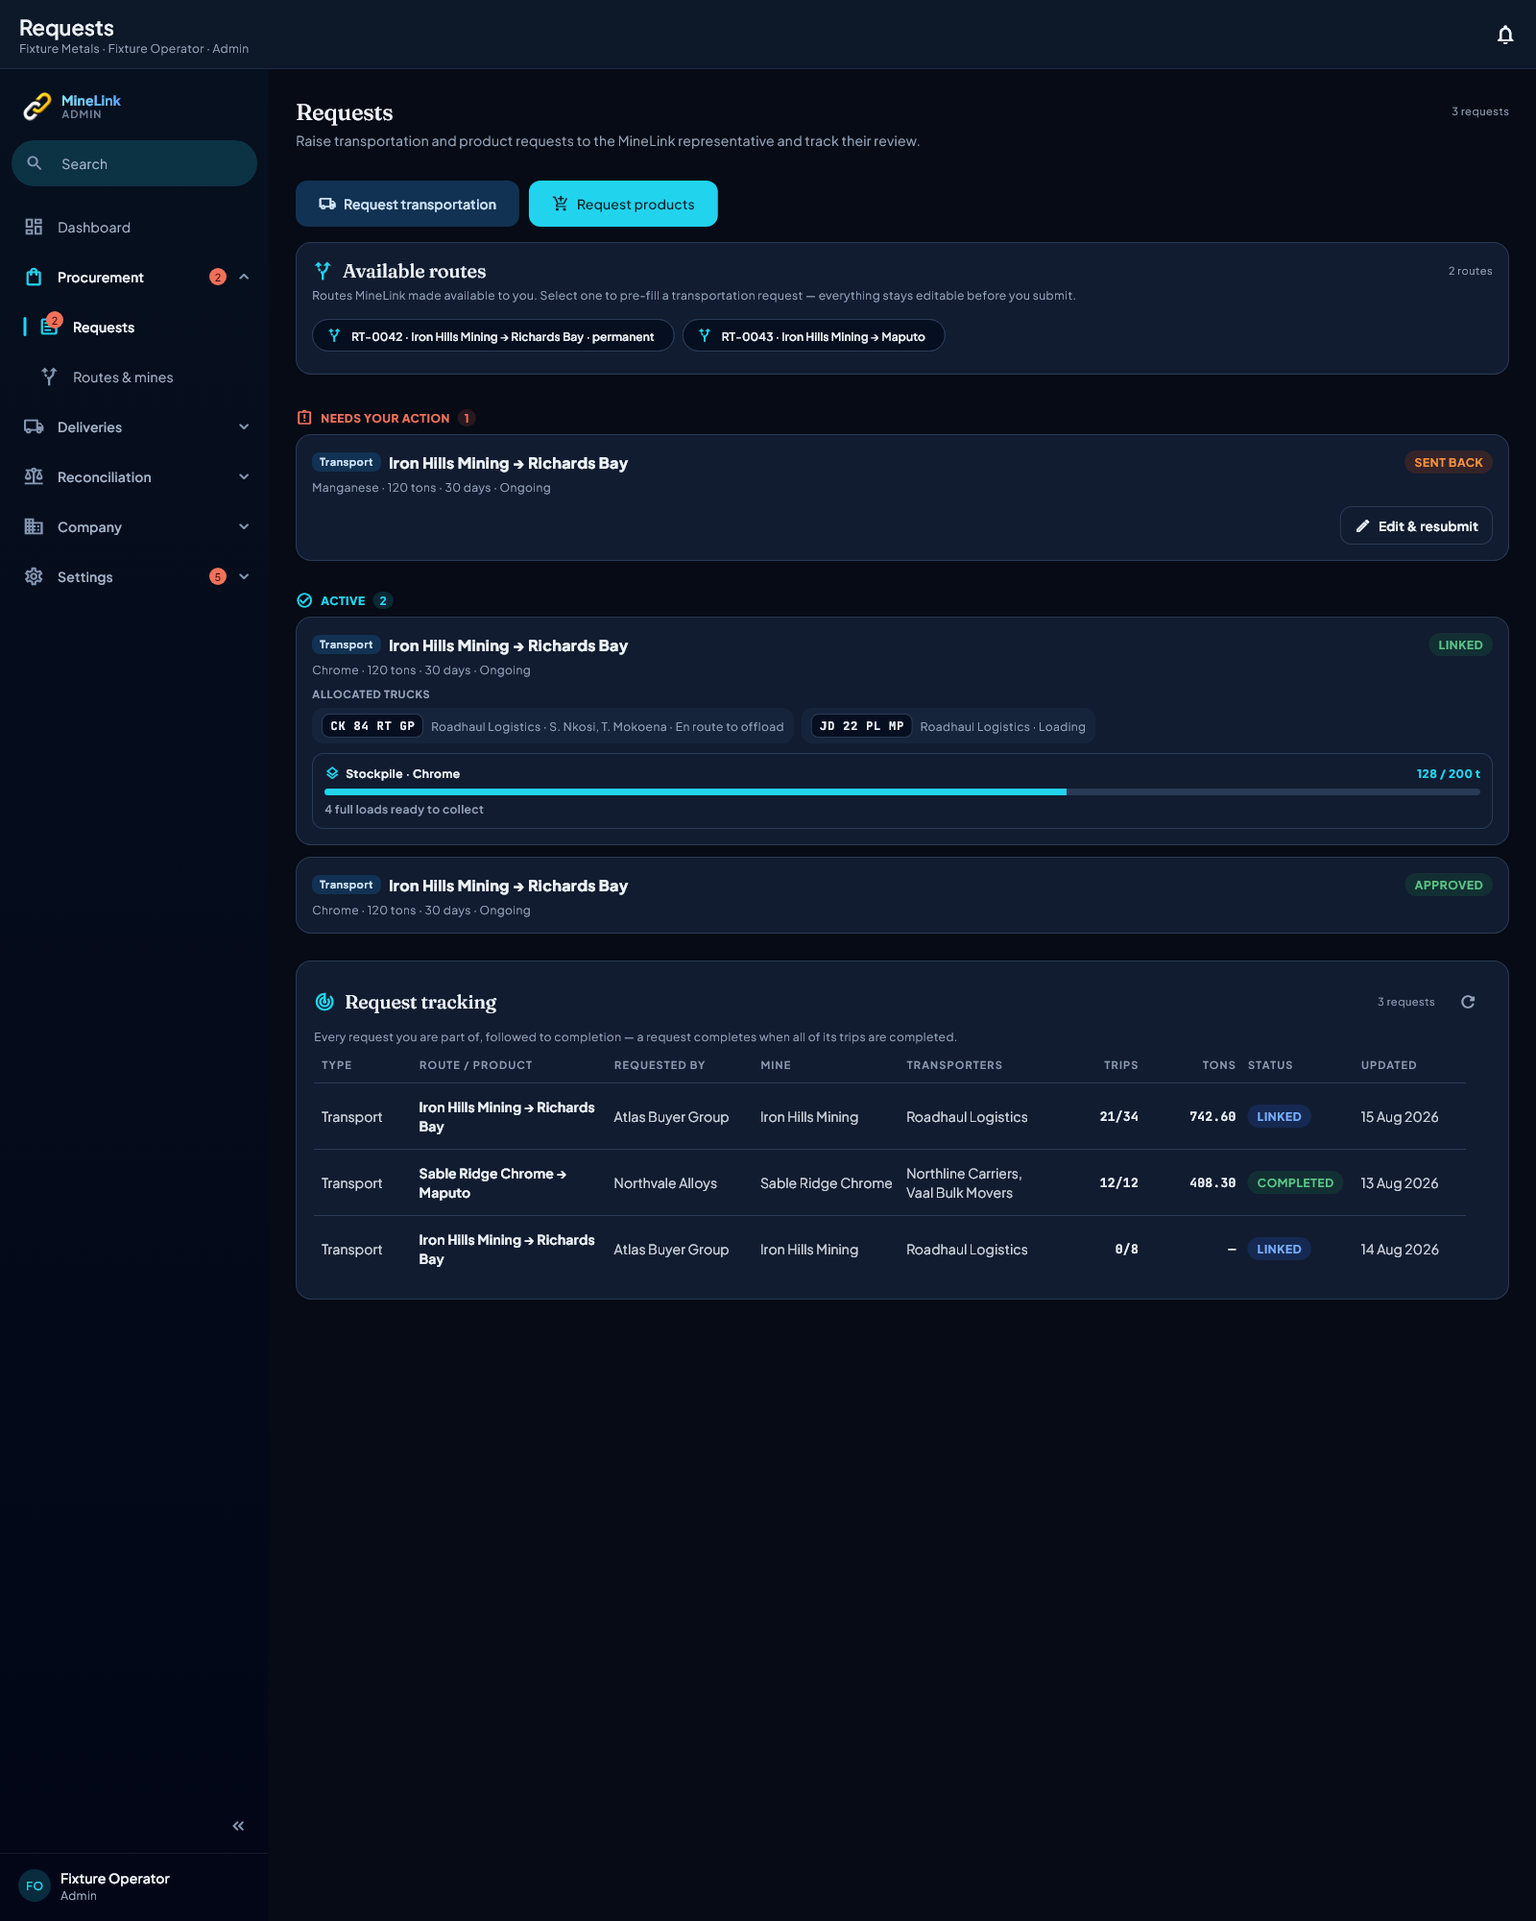
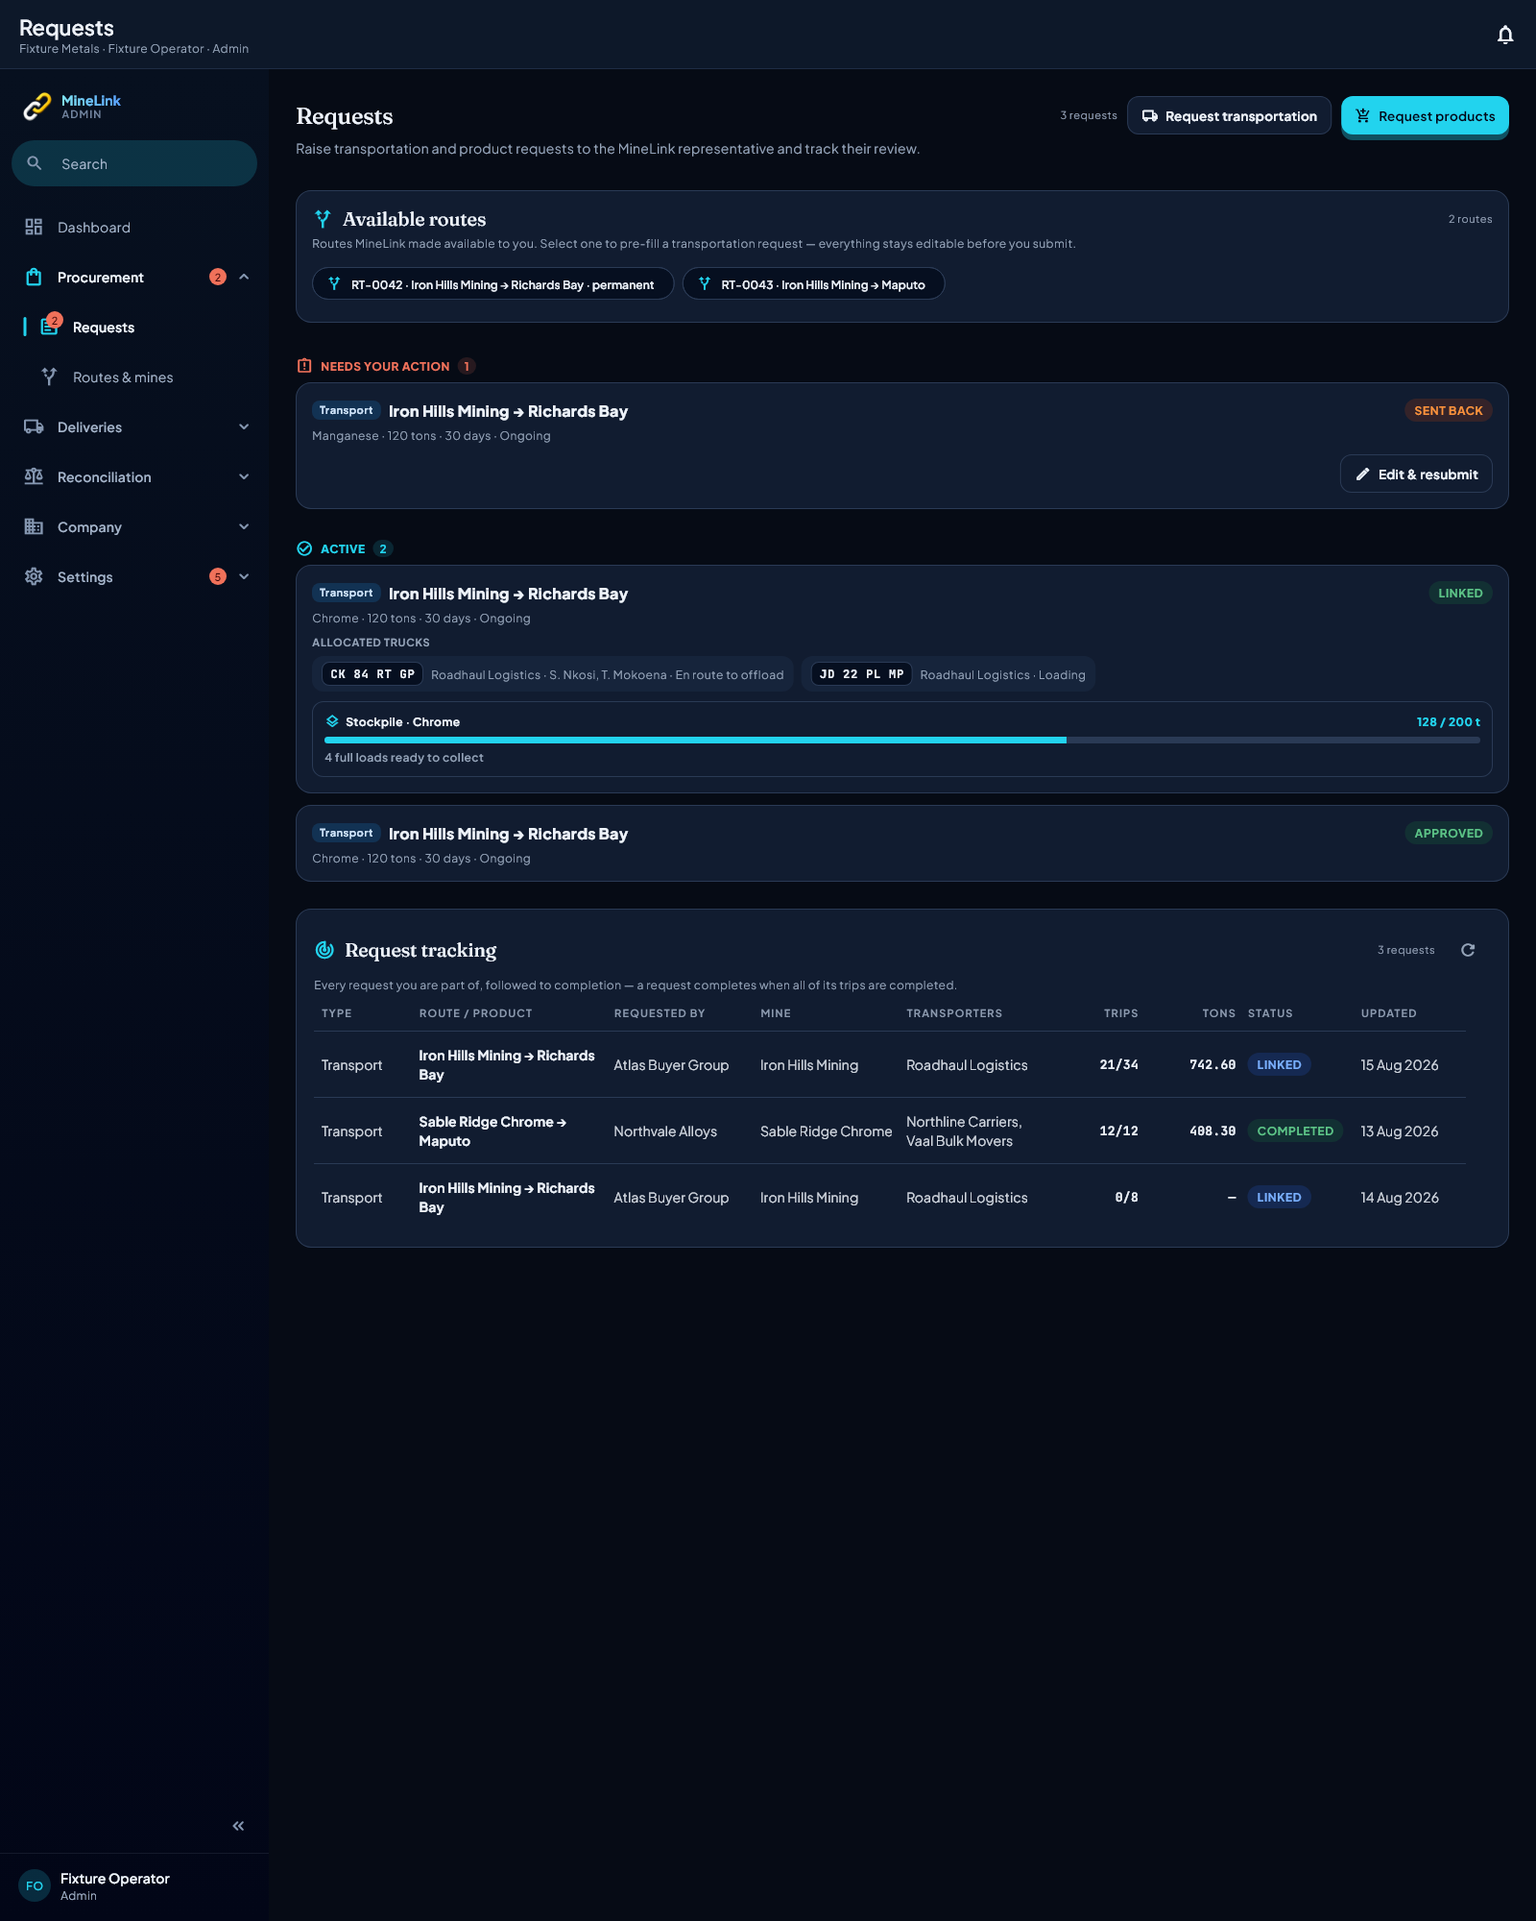
fix(requests): a mine is told it raises BUYER requests, the two actions move into the header, and the mine's own screen is photographed for the first time
Reviewer finding #43, verified in the code and then in a render that had to be
created to see it.

THE COPY. `BuyerRequestsScreen` is shared — a buyer gets it plain, a mine gets
`isMine: true`. Its own class doc four lines above the header says "buyers
request products, mines request buyers", and CLAUDE.md §4 is explicit: Request
2 (product) is BUYER ONLY, Request 3 (buyer) is MINE/SUPPLIER ONLY. The button
branched on `isMine` correctly. The sentence above it did not — both orgs read
"Raise transportation and product requests to the MineLink representative", so
the mine's Requests screen named the one request type it cannot raise and
omitted the one it can, directly above a button offering the one it omitted.

THE ACTIONS. Both sat in a left `Wrap` BELOW the header as stock Material — a
`FilledButton.tonalIcon` beside a `FilledButton.icon`, two button languages
side by side and neither of them this product's — while the header's own right
end held nothing but the meta. They are `MlPageHeader.actions` now,
`MlButton.tonal` then `MlButton.primary`, so the org-specific action keeps the
right edge it already had, which is also where the Buyers page puts its single
primary. On a phone `_HeaderLayout` measures, finds they do not fit beside the
title, and stacks them right-aligned (`bcb0fdb`); before, they were a stock
`Wrap` stranded left. The header is ~55px shorter on the desktop and ~34px on
the phone.
[…]

Changed region(s): [[0.1875, 0.031, 1.0, 0.682]]

diff --git a/test/features/portal/requests_screen_copy_and_actions_test.dart b/test/features/portal/requests_screen_copy_and_actions_test.dart
@@ -1,0 +1,187 @@
+// The Requests screen names the requests the org can actually raise, and its
+// actions belong to its header.
+//
+// Phase 3 mine-portal pass, 2026-08-23 (reviewer finding #43, verified in the
+// code and then in a render that did not exist — see below).
+//
+// `BuyerRequestsScreen` is shared: a buyer gets it plain, a mine gets it with
+// `isMine: true`. Its own class doc says "buyers request products, mines
+// request buyers", and §4 of CLAUDE.md is explicit — Request 2 (product) is
+// BUYER ONLY, Request 3 (buyer) is MINE/SUPPLIER ONLY. The button under the
+// header branched on `isMine` correctly. The sentence above it did not: both
+// orgs read "Raise transportation and product requests", so the mine's screen
+// named the one request type it cannot raise and omitted the one it can.
+//
+// And the two actions sat in a left `Wrap` BELOW the header as stock Material
+// — a `FilledButton.tonalIcon` beside a `FilledButton.icon`, two button
+// languages neither of which is this product's — while the header's own right
+// end held only the meta.
+//
+// NO RENDER OF `isMine: true` EXISTED. `unphotographed_screens.py` counted the
+// class as photographed because the name appears in the render file, which is
+// the name-based limit its own header documents; every picture was the buyer.
+// `screen-mine-requests-{desktop,phone}-dark` were added in the same commit,
+// and they also photograph `_RequestCard`'s `'buyer'` branch for the first
+// time.
+
+import 'package:flutter/material.dart';
+import 'package:flutter_riverpod/flutter_riverpod.dart';
+import 'package:flutter_test/flutter_test.dart';
+import 'package:shared_preferences/shared_preferences.dart';
+import 'package:supabase_flutter/supabase_flutter.dart';
+
+import 'package:flutter_application_1/core/design/components/ml_components.dart';
+import 'package:flutter_application_1/core/theme/app_theme.dart';
+import 'package:flutter_application_1/features/auth/models/user_type.dart';
+import 'package:flutter_application_1/features/portal/screens/buyer_requests_screen.dart';
+
+import '../../fixtures/portal_capture_fixtures.dart';
+import '../../fixtures/portal_tail_fixtures.dart';
+import '../../fixtures/screen_fixtures.dart';
+import '../../test_helpers/real_fonts.dart';
+import '../../test_helpers/frozen_clock.dart';
+
+void main() {
+  setUpAll(() async {
+    freezeCaptureClock();
+    await loadRealFonts();
+    SharedPreferences.setMockInitialValues({});
+    await Supabase.initialize(
+      url: 'http://localhost:54321',
+      anonKey: 'requests-copy-and-actions-test',
+    );
+  });
+
+  Future<void> pump(
+    WidgetTester tester, {
+    required bool isMine,
+    double width = 1600,
+  }) async {
+    tester.view.physicalSize = Size(width, 2400);
+    tester.view.devicePixelRatio = 1.0;
+    addTearDown(tester.view.reset);
+    await tester.pumpWidget(
+      ProviderScope(
+        overrides: [
+          ...companyScopeOverrides(
+            role: UserRole.admin,
+            orgType: isMine ? OrgType.mineSupplier : OrgType.buyer,
+          ),
+          ...portalCaptureOverrides(),
+          ...portalTailOverrides(),
+        ],
+        child: MaterialApp(
+          theme: AppTheme.darkTheme,
+          home: Scaffold(body: BuyerRequestsScreen(isMine: isMine)),
+        ),
+      ),
+    );
+    await tester.pump();
+    await tester.pump(const Duration(milliseconds: 600));
+  }
+
+  MlPageHeader header(WidgetTester tester) =>
+      tester.widget<MlPageHeader>(find.byType(MlPageHeader).first);
+
+  testWidgets('a mine is told it raises BUYER requests', (tester) async {
+    await pump(tester, isMine: true);
+
+    expect(header(tester).description, contains('buyer requests'));
+    expect(
+      header(tester).description,
+      isNot(contains('product')),
+      reason:
+          'CLAUDE.md §4 Request 2 is buyer-only — a mine cannot raise a '
+          'product request, and the button beside this sentence already knew '
+          'that',
+    );
+    expect(find.text('Request buyers'), findsOneWidget);
+    expect(find.text('Request products'), findsNothing);
+  });
+
+  // The GREEN case: the buyer's own copy was right and must stay right. This
+  // is the half a careless `isMine` branch would have broken.
+  testWidgets('a buyer is still told it raises PRODUCT requests', (
+    tester,
+  ) async {
+    await pump(tester, isMine: false);
+
+    expect(header(tester).description, contains('product requests'));
+    expect(header(tester).description, isNot(contains('buyer requests')));
+    expect(find.text('Request products'), findsOneWidget);
+    expect(find.text('Request buyers'), findsNothing);
+  });
+
+  testWidgets('both actions live in the page header, in the product\'s own '
+      'button language', (tester) async {
+    for (final isMine in [true, false]) {
+      await pump(tester, isMine: isMine);
+
+      expect(
+        header(tester).actions.length,
+        2,
+        reason: 'the screen-level actions belong to the screen-level header',
+      );
+      for (final w in header(tester).actions) {
+        expect(w, isA<MlButton>());
+      }
+
+      // `FilledButton.tonalIcon` and `FilledButton.icon` both build a
+      // `FilledButton`; `MlButton` does not.
+      expect(
+        find.byType(FilledButton),
+        findsNothing,
+        reason: 'stock Material buttons, in two different languages, next to '
+            'each other (isMine: $isMine)',
+      );
+    }
+  });
+
+  /// The fill `MlButton` actually paints for the button labelled [label].
+  ///
+  /// `MlButton._kind` is private and so is its enum, so the variant cannot be
+  /// read off the widget — but the colour it paints can, and that is the thing
+  /// a reader sees anyway.
+  Color? fillOf(WidgetTester tester, String label) {
+    final container = tester.widget<AnimatedContainer>(
+      find
+          .ancestor(
+            of: find.text(label),
+            matching: find.byType(AnimatedContainer),
+          )
+          .first,
+    );
+    return (container.decoration as BoxDecoration?)?.color;
+  }
+
+  testWidgets('the transportation action is the quieter of the two', (
+    tester,
+  ) async {
+    await pump(tester, isMine: true);
+
+    final actions = header(tester).actions.cast<MlButton>();
+    expect(actions.first.label, 'Request transportation');
+    expect(
+      actions.last.label,
+      'Request buyers',
+      reason:
+          'the org-specific action keeps the right edge it already had, which '
+          'is where the Buyers page puts its single primary too',
+    );
+
+    // And it is quieter, not merely earlier. `MlButton.primary` fills with the
+    // accent; `MlButton.tonal` fills with the card surface.
+    expect(
+      fillOf(tester, 'Request buyers'),
+      MlTokens.accent,
+      reason: 'the org-specific action is the primary one',
+    );
+    expect(
+      fillOf(tester, 'Request transportation'),
+      isNot(MlTokens.accent),
+      reason:
+          'two accent-filled buttons side by side is the same "everything is '
+          'emphasised" fault as the buyer cards on the Buyers page',
+    );
+  });
+}

diff --git a/lib/features/portal/screens/buyer_requests_screen.dart b/lib/features/portal/screens/buyer_requests_screen.dart
@@ -53,44 +53,53 @@ class BuyerRequestsScreen extends ConsumerWidget {
                 MlPageHeader(
                   title: 'Requests',
                   meta: mlCount(requests.length, 'request'),
-                  description:
-                      'Raise transportation and product requests to the MineLink '
-                      'representative and track their review.',
-                ),
-                if (!mirror) ...[
-                  const SizedBox(height: 14),
-                  Wrap(
-                    spacing: 10,
-                    runSpacing: 10,
-                    children: [
-                      FilledButton.tonalIcon(
-                        onPressed: () => _openForm(context, ref, companyId),
-                        icon: const Icon(
-                          Icons.local_shipping_outlined,
-                          size: 18,
-                        ),
-                        label: const Text('Request transportation'),
-                      ),
-                      if (isMine)
-                        FilledButton.icon(
-                          onPressed: () =>
-                              showBuyersRequestDialog(context, ref, companyId),
-                          icon: const Icon(Icons.group_add_outlined, size: 18),
-                          label: const Text('Request buyers'),
-                        )
-                      else
-                        FilledButton.icon(
-                          onPressed: () =>
-                              showProductRequestDialog(context, ref, companyId),
-                          icon: const Icon(
-                            Icons.add_shopping_cart_outlined,
-                            size: 18,
+                  // A MINE DOES NOT REQUEST PRODUCTS. This sentence had no
+                  // `isMine` branch, so the mine's own Requests screen
+                  // named a request type it cannot raise and omitted the
+                  // one it can — while the class doc four lines above says
+                  // "buyers request products, mines request buyers" and the
+                  // button under it said the same. §4 Request 2 is buyer
+                  // only; Request 3 is mine/supplier only.
+                  description: isMine
+                      ? 'Raise transportation and buyer requests to the MineLink '
+                          'representative and track their review.'
+                      : 'Raise transportation and product requests to the MineLink '
+                          'representative and track their review.',
+                  // The screen's own actions belong to its header. They sat
+                  // in a left `Wrap` BELOW it as stock Material — a
+                  // `FilledButton.tonalIcon` next to a `FilledButton.icon`,
+                  // two button languages side by side and neither of them
+                  // the product's — with the header's own right end empty.
+                  // Quieter first, so the org-specific action keeps the
+                  // right edge it already had and matches the Buyers page.
+                  actions: mirror
+                      ? const []
+                      : [
+                          MlButton.tonal(
+                            label: 'Request transportation',
+                            icon: Icons.local_shipping_outlined,
+                            compact: true,
+                            onPressed: () =>
+                                _openForm(context, ref, companyId),
                           ),
-                          label: const Text('Request products'),
-                        ),
-                    ],
-                  ),
-                ],
+                          if (isMine)
+                            MlButton.primary(
+                              label: 'Request buyers',
+                              icon: Icons.group_add_outlined,
+                              compact: true,
+                              onPressed: () => showBuyersRequestDialog(
+                                  context, ref, companyId),
+                            )
+                          else
+                            MlButton.primary(
+                              label: 'Request products',
+                              icon: Icons.add_shopping_cart_outlined,
+                              compact: true,
+                              onPressed: () => showProductRequestDialog(
+                                  context, ref, companyId),
+                            ),
+                        ],
+                ),
                 const SizedBox(height: 16),
                 AvailableRoutesSection(companyId: companyId, enabled: !mirror),
                 if (requests.isEmpty)

diff --git a/test/renders/redesign_renders_test.dart b/test/renders/redesign_renders_test.dart
@@ -146,6 +146,8 @@ import '../fixtures/nav_fixtures.dart';
 import '../fixtures/portal_capture_fixtures.dart';
 import '../fixtures/portal_tail_fixtures.dart';
 import '../fixtures/shared_tail_fixtures.dart';
+import 'package:flutter_application_1/features/portal/providers/request_provider.dart';
+
 import '../fixtures/screen_fixtures.dart';
 import '../test_helpers/fake_geolocator.dart';
 import '../test_helpers/fake_path_provider.dart';
@@ -3388,6 +3390,54 @@ void main() {
         title: 'Fixture Metals',
         subtitle: 'Requests',
         selectedRoute: '/portal/buyer/requests',
+      );
+    });
+
+    // THE MINE'S OWN Requests screen, which had never been photographed.
+    //
+    // `BuyerRequestsScreen` is named in this file, so `unphotographed_screens`
+    // counted it — that check is name-based and says so in its own header.
+    // But every picture of it was `isMine: false`, and the two things that
+    // differ are exactly where the drift was: the description (a mine raises
+    // transportation and BUYER requests, never product ones) and the second
+    // action.
+    //
+    // The fixture is the shared transportation list PLUS the mine's buyer
+    // request from `kAdminBuyerRequests`, so the picture shows both types a
+    // mine can actually raise. That also photographs `_RequestCard`'s
+    // `'buyer'` branch (title "Chrome · buyers", type label "Buyers") and its
+    // attachment chips for the first time on this screen.
+    testWidgets('mine requests — desktop dark', (tester) async {
+      await shootPortal(
+        tester,
+        const BuyerRequestsScreen(isMine: true),
+        const Size(1600, 2200),
+        'screen-mine-requests-desktop-dark',
+        orgType: OrgType.mineSupplier,
+        title: 'Fixture Chrome Mine',
+        subtitle: 'Requests',
+        selectedRoute: '/portal/mine/requests',
+        extra: [
+          companyRequestsProvider.overrideWith(
+              (ref, _) async => [...kRequests, ...kAdminBuyerRequests]),
+        ],
+      );
+    });
+
+    testWidgets('mine requests — phone dark', (tester) async {
+      await shootPortal(
+        tester,
+        const BuyerRequestsScreen(isMine: true),
+        const Size(412, 2200),
+        'screen-mine-requests-phone-dark',
+        orgType: OrgType.mineSupplier,
+        title: 'Fixture Chrome Mine',
+        subtitle: 'Requests',
+        selectedRoute: '/portal/mine/requests',
+        extra: [
+          companyRequestsProvider.overrideWith(
+              (ref, _) async => [...kRequests, ...kAdminBuyerRequests]),
+        ],
       );
     });
 
